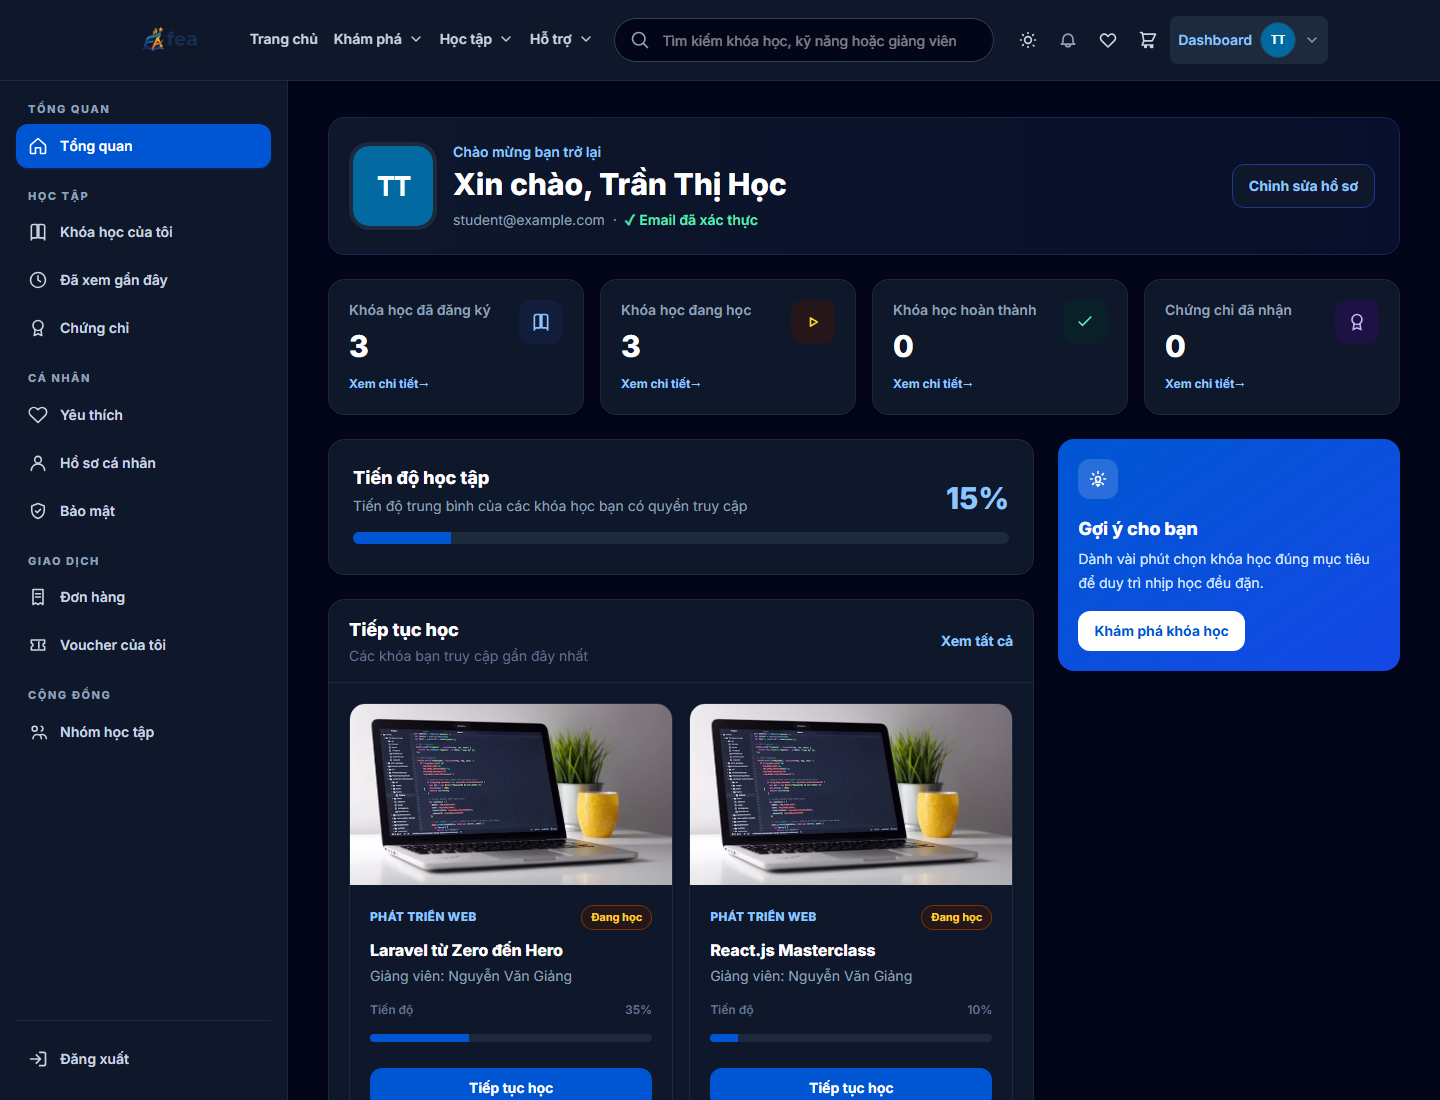
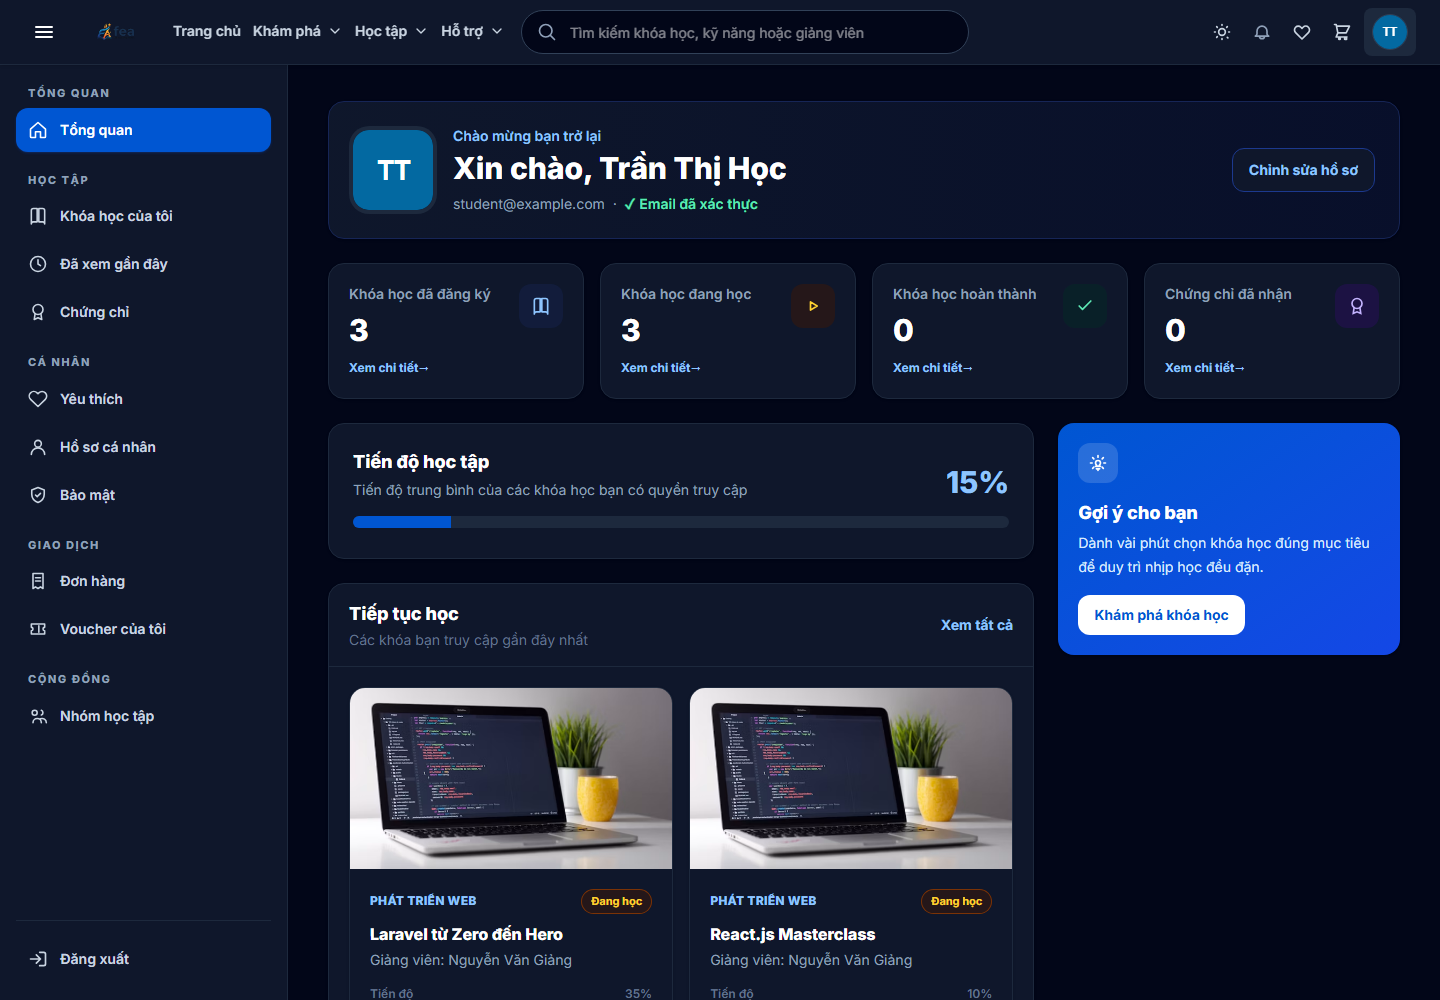
feat(student-dashboard): add collapsible sidebar toggle

diff --git a/resources/views/components/public/header.blade.php b/resources/views/components/public/header.blade.php
@@ -39,6 +39,11 @@
 
     $navItemClass = 'inline-flex h-full items-center gap-1.5 border-b-2 border-transparent px-1 text-sm font-semibold transition-colors duration-200 focus-visible:outline-none focus-visible:ring-2 focus-visible:ring-[#0056D2] focus-visible:ring-offset-4 dark:focus-visible:ring-offset-slate-900';
     $dropdownItemClass = 'flex min-h-10 items-center gap-3 rounded-lg px-3 py-2 text-sm font-medium text-slate-700 transition-colors duration-150 hover:bg-blue-50 hover:text-[#0056D2] focus-visible:bg-blue-50 focus-visible:text-[#0056D2] focus-visible:outline-none dark:text-slate-200 dark:hover:bg-slate-800 dark:hover:text-blue-300 dark:focus-visible:bg-slate-800 dark:focus-visible:text-blue-300';
+    $headerContainerClass = $studentDashboard ? 'w-full px-3 sm:px-4 lg:px-5 xl:px-6' : 'ui-container';
+    $headerRowClass = $studentDashboard ? 'flex min-h-16 items-center gap-2 lg:gap-3' : 'flex min-h-20 items-center gap-2 sm:gap-3 lg:gap-4';
+    $headerLogoClass = $studentDashboard ? 'h-10 w-auto object-contain sm:h-11' : 'h-14 w-auto object-contain sm:h-16';
+    $headerNavClass = $studentDashboard ? 'hidden h-16 items-center gap-1 text-slate-700 xl:flex dark:text-slate-300' : 'hidden h-20 items-center gap-2 text-slate-700 lg:flex dark:text-slate-300';
+    $headerSearchClass = $studentDashboard ? 'hidden min-w-0 max-w-md flex-1 items-center md:flex' : 'hidden min-w-0 flex-1 items-center lg:flex';
 @endphp
 
 <header
@@ -49,27 +54,28 @@
     x-on:keydown.escape.window="closeMenus(); mobileOpen = false"
     x-on:click.outside="closeMenus()"
 >
-    <div class="ui-container">
-        <div class="flex min-h-20 items-center gap-2 sm:gap-3 lg:gap-4">
+    <div class="{{ $headerContainerClass }}">
+        <div class="{{ $headerRowClass }}">
             <button
                 type="button"
                 @if($studentDashboard)
-                    x-on:click="$dispatch('open-student-sidebar')"
-                    aria-controls="student-mobile-sidebar"
+                    x-on:click="$dispatch('toggle-student-sidebar')"
+                    :aria-controls="window.matchMedia('(min-width: 1024px)').matches ? 'student-desktop-sidebar' : 'student-mobile-sidebar'"
+                    :aria-expanded="(window.matchMedia('(min-width: 1024px)').matches ? studentSidebarDesktopOpen : studentSidebarOpen).toString()"
                 @else
                     x-on:click="mobileOpen = true"
                 @endif
-                class="inline-flex shrink-0 cursor-pointer rounded-lg p-2 text-slate-900 transition-colors duration-200 hover:bg-slate-100 focus-visible:outline-none focus-visible:ring-2 focus-visible:ring-[#0056D2] dark:text-white dark:hover:bg-slate-800 lg:hidden"
-                aria-label="{{ $studentDashboard ? 'Mở menu học viên' : 'Mở menu' }}"
+                class="inline-flex shrink-0 cursor-pointer rounded-lg p-2 text-slate-900 transition-colors duration-200 hover:bg-slate-100 focus-visible:outline-none focus-visible:ring-2 focus-visible:ring-[#0056D2] dark:text-white dark:hover:bg-slate-800 {{ $studentDashboard ? '' : 'lg:hidden' }}"
+                aria-label="{{ $studentDashboard ? 'Ẩn/hiện menu học viên' : 'Mở menu' }}"
             >
                 <svg class="h-6 w-6" fill="none" stroke="currentColor" viewBox="0 0 24 24" aria-hidden="true"><path stroke-linecap="round" stroke-linejoin="round" stroke-width="2" d="M4 7h16M4 12h16M4 17h16"/></svg>
             </button>
 
             <a href="{{ route('home') }}" class="flex shrink-0 items-center text-lg font-extrabold text-slate-900 dark:text-white" aria-label="FEA Learning - Trang chủ">
-                <img src="{{ asset('images/fea-logo.png') }}" alt="FEA Learning" class="h-14 w-auto object-contain sm:h-16">
+                <img src="{{ asset('images/fea-logo.png') }}" alt="FEA Learning" class="{{ $headerLogoClass }}">
             </a>
 
-            <nav class="hidden h-20 items-center gap-2 text-slate-700 dark:text-slate-300 lg:flex" aria-label="Điều hướng chính">
+            <nav class="{{ $headerNavClass }}" aria-label="Điều hướng chính">
                 <a href="{{ route('home') }}" class="{{ $navItemClass }} {{ request()->routeIs('home') ? 'border-[#0056D2] text-[#0056D2] dark:border-blue-400 dark:text-blue-300' : 'hover:border-blue-200 hover:text-[#0056D2] dark:hover:border-slate-600 dark:hover:text-blue-300' }}">Trang chủ</a>
 
                 <div class="public-nav-group relative flex h-full items-center" :class="isOpen('explore') ? 'public-nav-group--open' : ''" x-on:mouseenter="activate('explore')" x-on:mouseleave="closeMenus()">
@@ -201,7 +207,7 @@
                 @endauth
             </nav>
 
-            <form method="GET" action="{{ route('home') }}" class="hidden min-w-0 flex-1 items-center lg:flex">
+            <form method="GET" action="{{ route('home') }}" class="{{ $headerSearchClass }}">
                 <label class="relative block w-full">
                     <span class="sr-only">Tìm kiếm khóa học</span>
                     <svg class="pointer-events-none absolute left-4 top-1/2 h-5 w-5 -translate-y-1/2 text-slate-400" fill="none" stroke="currentColor" viewBox="0 0 24 24" aria-hidden="true"><path stroke-linecap="round" stroke-linejoin="round" stroke-width="2" d="m21 21-4.35-4.35M10.5 18a7.5 7.5 0 1 1 0-15 7.5 7.5 0 0 1 0 15Z"/></svg>
@@ -210,19 +216,21 @@
             </form>
 
             <div class="ml-auto flex shrink-0 items-center gap-0.5 sm:gap-1">
-                <button type="button" data-theme-toggle onclick="toggleTheme()" class="inline-flex cursor-pointer rounded-lg p-2 text-slate-600 transition-colors duration-200 hover:bg-slate-50 hover:text-[#0056D2] focus-visible:outline-none focus-visible:ring-2 focus-visible:ring-[#0056D2] dark:text-slate-300 dark:hover:bg-slate-800 dark:hover:text-blue-300" aria-label="Đổi giao diện" aria-pressed="false">
+                <button type="button" data-theme-toggle onclick="toggleTheme()" class="{{ $studentDashboard ? 'hidden sm:inline-flex' : 'inline-flex' }} cursor-pointer rounded-lg p-2 text-slate-600 transition-colors duration-200 hover:bg-slate-50 hover:text-[#0056D2] focus-visible:outline-none focus-visible:ring-2 focus-visible:ring-[#0056D2] dark:text-slate-300 dark:hover:bg-slate-800 dark:hover:text-blue-300" aria-label="Đổi giao diện" aria-pressed="false">
                     <svg class="hidden h-5 w-5 dark:block" fill="none" stroke="currentColor" viewBox="0 0 24 24" aria-hidden="true"><path stroke-linecap="round" stroke-linejoin="round" stroke-width="2" d="M12 3v1m0 16v1m9-9h-1M4 12H3m15.364-6.364-.707.707M6.343 17.657l-.707.707m0-12.728.707.707m12.728 12.728-.707-.707M12 8a4 4 0 1 0 0 8 4 4 0 0 0 0-8Z"/></svg>
                     <svg class="block h-5 w-5 dark:hidden" fill="none" stroke="currentColor" viewBox="0 0 24 24" aria-hidden="true"><path stroke-linecap="round" stroke-linejoin="round" stroke-width="2" d="M20.354 15.354A9 9 0 0 1 8.646 3.646 9.003 9.003 0 0 0 12 21a9.003 9.003 0 0 0 8.354-5.646Z"/></svg>
                 </button>
 
                 @auth
-                    <x-notifications.bell
-                        :recent-notifications="$recentNotifications ?? collect()"
-                        :unread-count="$unreadNotificationCount ?? 0"
-                    />
+                    <div class="{{ $studentDashboard ? 'hidden sm:block' : 'contents' }}">
+                        <x-notifications.bell
+                            :recent-notifications="$recentNotifications ?? collect()"
+                            :unread-count="$unreadNotificationCount ?? 0"
+                        />
+                    </div>
 
                     @if($user->isStudent())
-                        <a href="{{ route('favorites.index') }}" data-favorite-count="{{ $favoriteCourseCount ?? 0 }}" class="relative inline-flex cursor-pointer rounded-lg p-2 text-slate-600 transition-colors duration-200 hover:bg-slate-50 hover:text-[#0056D2] focus-visible:outline-none focus-visible:ring-2 focus-visible:ring-[#0056D2] dark:text-slate-300 dark:hover:bg-slate-800 dark:hover:text-blue-300 {{ $favoriteActive ? 'bg-blue-50 text-[#0056D2] dark:bg-slate-800 dark:text-blue-300' : '' }}" aria-label="Khóa học yêu thích" title="Khóa học yêu thích">
+                        <a href="{{ route('favorites.index') }}" data-favorite-count="{{ $favoriteCourseCount ?? 0 }}" class="relative {{ $studentDashboard ? 'hidden md:inline-flex' : 'inline-flex' }} cursor-pointer rounded-lg p-2 text-slate-600 transition-colors duration-200 hover:bg-slate-50 hover:text-[#0056D2] focus-visible:outline-none focus-visible:ring-2 focus-visible:ring-[#0056D2] dark:text-slate-300 dark:hover:bg-slate-800 dark:hover:text-blue-300 {{ $favoriteActive ? 'bg-blue-50 text-[#0056D2] dark:bg-slate-800 dark:text-blue-300' : '' }}" aria-label="Khóa học yêu thích" title="Khóa học yêu thích">
                             <svg class="h-5 w-5" fill="{{ ($favoriteCourseCount ?? 0) > 0 ? 'currentColor' : 'none' }}" stroke="currentColor" stroke-width="2" viewBox="0 0 24 24" aria-hidden="true"><path stroke-linecap="round" stroke-linejoin="round" d="M4.318 6.318a4.5 4.5 0 0 1 6.364 0L12 7.636l1.318-1.318a4.5 4.5 0 1 1 6.364 6.364L12 20.364l-7.682-7.682a4.5 4.5 0 0 1 0-6.364Z"/></svg>
                             @if(($favoriteCourseCount ?? 0) > 0)
                                 <span data-favorite-badge class="absolute right-1 top-1 flex h-4 min-w-4 items-center justify-center rounded-full bg-rose-500 px-1 text-[9px] font-bold leading-none text-white">{{ $favoriteCourseCount > 99 ? '99+' : $favoriteCourseCount }}</span>
@@ -247,7 +255,7 @@
                             aria-haspopup="true"
                             aria-label="Mở menu tài khoản"
                         >
-                            <span class="hidden xl:inline">Dashboard</span>
+                            <span class="{{ $studentDashboard ? 'hidden 2xl:inline' : 'hidden xl:inline' }}">Dashboard</span>
                             <span class="flex h-9 w-9 items-center justify-center overflow-hidden rounded-full border border-slate-300 bg-slate-50 text-sm font-bold text-slate-900 dark:border-slate-700 dark:bg-slate-800 dark:text-white">
                                 @if($user->avatar)
                                     <img src="{{ $user->avatarUrl() }}" alt="{{ $user->name }}" class="h-full w-full object-cover">
@@ -255,7 +263,7 @@
                                     {{ strtoupper(substr($user->name, 0, 1)) }}
                                 @endif
                             </span>
-                            <svg class="hidden h-4 w-4 text-slate-400 transition-transform duration-200 xl:block" :class="isOpen('account') ? 'rotate-180' : ''" fill="none" stroke="currentColor" viewBox="0 0 24 24" aria-hidden="true"><path stroke-linecap="round" stroke-linejoin="round" stroke-width="2" d="m6 9 6 6 6-6"/></svg>
+                            <svg class="{{ $studentDashboard ? 'hidden 2xl:block' : 'hidden xl:block' }} h-4 w-4 text-slate-400 transition-transform duration-200" :class="isOpen('account') ? 'rotate-180' : ''" fill="none" stroke="currentColor" viewBox="0 0 24 24" aria-hidden="true"><path stroke-linecap="round" stroke-linejoin="round" stroke-width="2" d="m6 9 6 6 6-6"/></svg>
                         </button>
                         <div
                             id="public-nav-account"
@@ -305,6 +313,7 @@
         </div>
     </div>
 
+    @unless($studentDashboard)
     <div class="border-t border-slate-200 px-4 py-3 dark:border-slate-800 lg:hidden">
         <form method="GET" action="{{ route('home') }}">
             <label class="relative block">
@@ -314,6 +323,7 @@
             </label>
         </form>
     </div>
+    @endunless
 
     <div x-show="mobileOpen" x-cloak class="fixed inset-0 z-[60] lg:hidden" role="dialog" aria-modal="true" aria-label="Menu chính">
         <div class="absolute inset-0 bg-slate-950/45" x-on:click="mobileOpen = false"></div>

diff --git a/resources/views/student/dashboard/layouts/app.blade.php b/resources/views/student/dashboard/layouts/app.blade.php
@@ -12,16 +12,33 @@
     @vite(['resources/css/app.css', 'resources/js/app.js'])
 </head>
 <body data-student-public-layout data-student-dashboard-shell
-      x-data="{ studentSidebarOpen: false }"
+      x-data="{
+          studentSidebarOpen: false,
+          studentSidebarDesktopOpen: localStorage.getItem('student-sidebar-desktop-open') !== 'false',
+          toggleStudentSidebar() {
+              if (window.matchMedia('(min-width: 1024px)').matches) {
+                  this.studentSidebarDesktopOpen = !this.studentSidebarDesktopOpen;
+                  localStorage.setItem('student-sidebar-desktop-open', this.studentSidebarDesktopOpen.toString());
+                  return;
+              }
+
+              this.studentSidebarOpen = true;
+              document.body.classList.add('overflow-hidden');
+          }
+      }"
+      x-on:toggle-student-sidebar.window="toggleStudentSidebar()"
       x-on:open-student-sidebar.window="studentSidebarOpen = true; document.body.classList.add('overflow-hidden')"
       x-on:close-student-sidebar.window="studentSidebarOpen = false; document.body.classList.remove('overflow-hidden')"
+      x-on:resize.window="if (window.innerWidth >= 1024 && studentSidebarOpen) { studentSidebarOpen = false; document.body.classList.remove('overflow-hidden'); }"
       x-on:keydown.escape.window="$dispatch('close-student-sidebar')"
       class="min-h-screen overflow-x-hidden bg-slate-50 font-sans text-slate-900 antialiased dark:bg-slate-950 dark:text-slate-100">
     <x-public.header :student-dashboard="true" />
     <x-toast-container />
 
     <div class="flex w-full">
-        <aside class="sticky left-0 top-20 hidden h-[calc(100vh-5rem)] w-72 shrink-0 border-r border-slate-200 bg-white lg:block dark:border-slate-800 dark:bg-slate-900">
+        <aside id="student-desktop-sidebar" x-cloak x-show="studentSidebarDesktopOpen"
+               x-transition:enter="transition duration-200 ease-out" x-transition:enter-start="-translate-x-4 opacity-0" x-transition:enter-end="translate-x-0 opacity-100"
+               class="sticky left-0 top-16 hidden h-[calc(100vh-4rem)] w-72 shrink-0 border-r border-slate-200 bg-white lg:block dark:border-slate-800 dark:bg-slate-900">
             @include('student.dashboard.partials.sidebar', ['mobile' => false])
         </aside>
 

diff --git a/tests/Feature/StudentDashboardRefactorTest.php b/tests/Feature/StudentDashboardRefactorTest.php
@@ -70,8 +70,9 @@ class StudentDashboardRefactorTest extends TestCase
             ->assertViewIs('student.dashboard.overview.index')
             ->assertSee('data-public-header', false)
             ->assertSee('data-student-dashboard-header', false)
-            ->assertSee('sticky left-0 top-20', false)
-            ->assertSee('Mở menu học viên')
+            ->assertSee('x-on:toggle-student-sidebar.window', false)
+            ->assertSee('student-desktop-sidebar', false)
+            ->assertSee('Ẩn/hiện menu học viên')
             ->assertViewHas('continueLearning', fn ($items) => $items->count() === 3)
             ->assertViewHas('stats', fn ($stats) => $stats === [
                 'enrolled' => 4,

diff --git a/resources/views/student/dashboard/partials/mobile-menu.blade.php b/resources/views/student/dashboard/partials/mobile-menu.blade.php
@@ -1,4 +1,4 @@
-<div x-cloak x-show="studentSidebarOpen" class="fixed inset-0 z-50 lg:hidden" role="dialog" aria-modal="true" aria-label="Menu học viên">
+<div x-cloak x-show="studentSidebarOpen" class="fixed inset-0 z-[60] lg:hidden" role="dialog" aria-modal="true" aria-label="Menu học viên">
     <button type="button" x-show="studentSidebarOpen" x-transition.opacity x-on:click="$dispatch('close-student-sidebar')" class="absolute inset-0 bg-slate-950/50" aria-label="Đóng menu"></button>
     <aside id="student-mobile-sidebar" x-show="studentSidebarOpen"
            x-transition:enter="transition duration-200 ease-out" x-transition:enter-start="-translate-x-full" x-transition:enter-end="translate-x-0"
